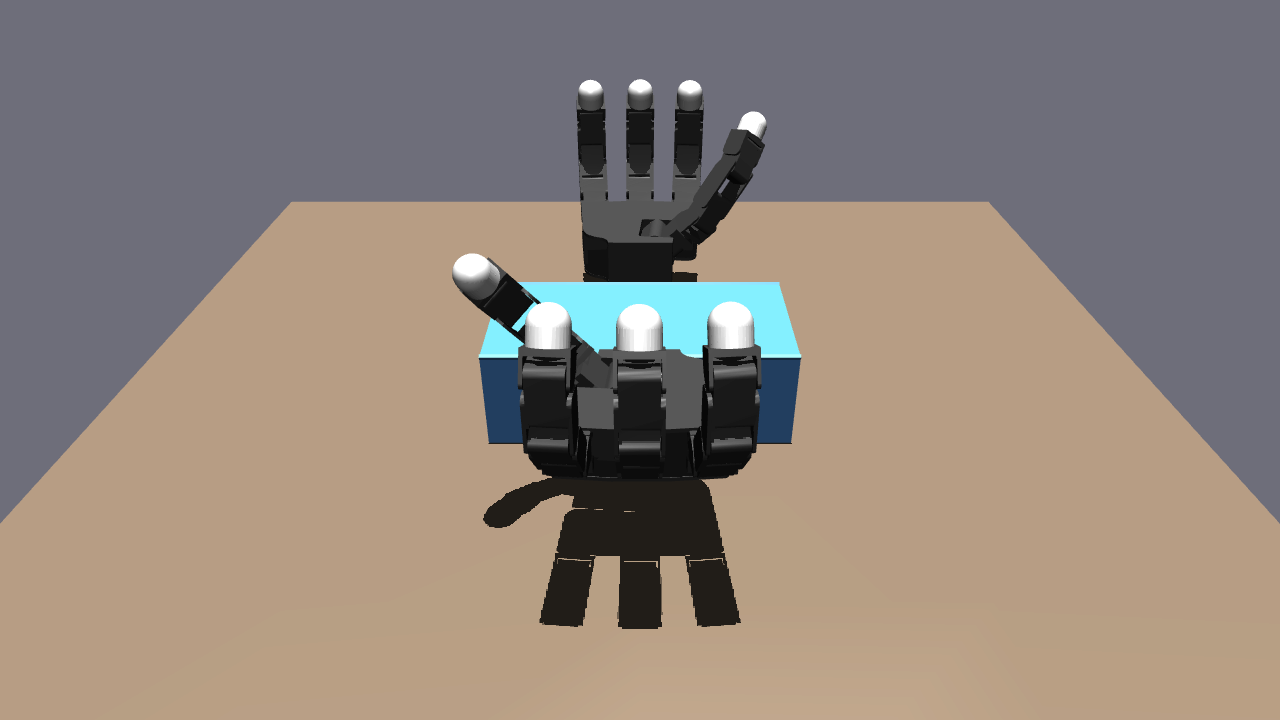
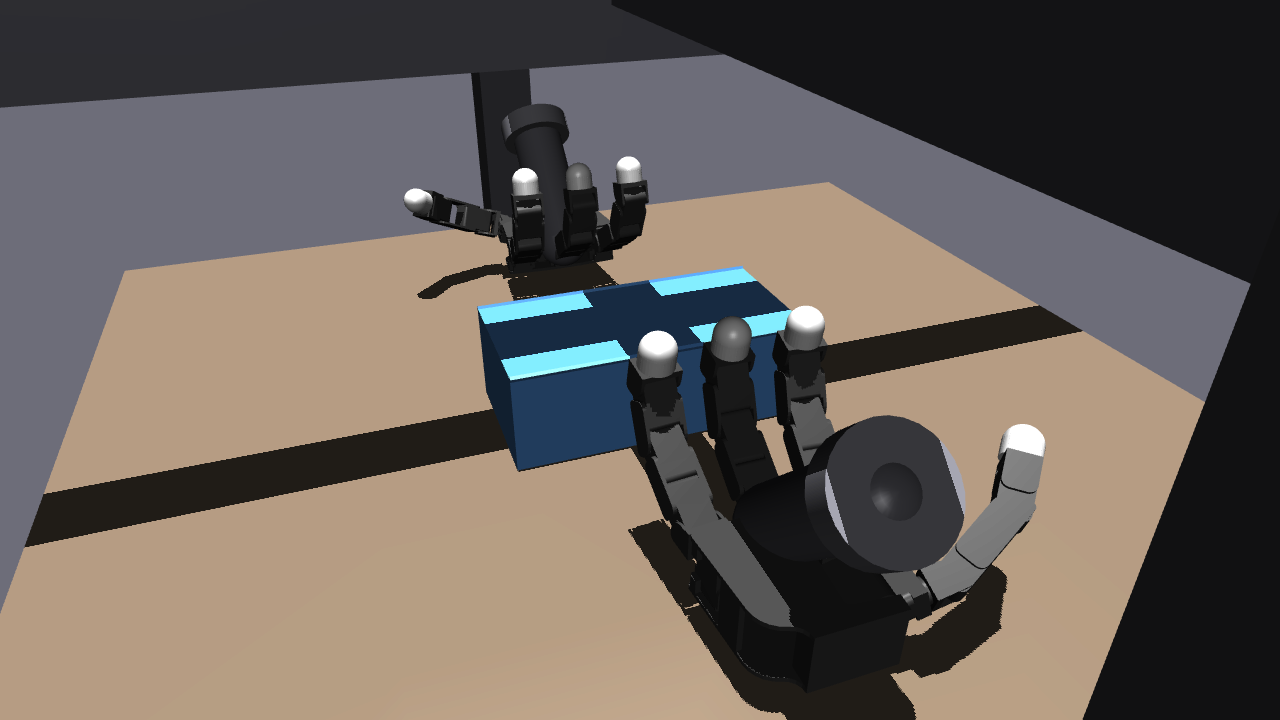
p0(w6d): v5 placeholder re-render

diff --git a/viz/panel_data_v2.js b/viz/panel_data_v2.js
@@ -1,1 +1,1 @@
-window.PANEL_DATA_V2 = {"fps": 30.0, "video_frames": ["docs/video_frames/f_0001.jpg", "docs/video_frames/f_0025.jpg", "docs/video_frames/f_0049.jpg", "docs/video_frames/f_0067.jpg", "docs/video_frames/f_0091.jpg", "docs/video_frames/f_0115.jpg", "docs/video_frames/f_0160.jpg", "docs/video_frames/f_0190.jpg", "docs/video_frames/f_0220.jpg"], "replay": {"fps": 30.0, "frames": [{"t": 0.0, "qpos": [7.12198918611605e-08, 2.126283932308127e-08, 0.739970907574062, 0.9999999999999997, -5.283763555937869e-16, 4.380527332883937e-12, 2.589560287387119e-14, 7.581018258541922e-09, -8.432069344802527e-07, -0.00042150913837548775, 0.0023556079973507246, -0.008797226943236565, 4.5557151118255606e-07, 6.0549068803779405e-05, 0.8865805668368311, 0.7015293130772894, 0.4013895912175097, 3.325323898538611e-05, 0.8865874034630451, 0.7015327064574296, 0.4013902777195643, 5.389208739854652e-06, 0.8865896580078455, 0.7015351188959165, 0.40139076590284906, 0.7763568879886139, 0.4931321616448214, 0.4002177610666012, 0.3013748193978717, 7.581018258541305e-09, -8.432069344802533e-07, -0.00042150913837548775, 0.002355607997350724, -0.008797226943236565, 4.5557151118255373e-07, 6.054906880377963e-05, 0.8865805668368311, 0.7015293130772894, 0.4013895912175097, 3.325323898538613e-05, 0.8865874034630451, 0.7015327064574296, 0.4013902777195643, 5.389208739854318e-06, 0.8865896580078455, 0.7015351188959165, 0.40139076590284906, 0.7763568879886139, 0.4931321616448214, 0.4002177610666012, 0.3013748193978717], "obj": [7.12198918611605e-08, 2.126283932308127e-08, 0.739970907574062, 0.9999999999999997, -5.283763555937869e-16, 4.380527332883937e-12, 2.589560287387119e-14]}, {"t": 2.2333333333333334, "qpos": [0.0, 0.0, 0.0, 0.0, 0.0, 0.0, 0.0, 0.038116029591155405, 0.041665160191913624, 0.011038102100861678, 1.5657043249872495, -0.5183876003612219, -0.5730711416161304, 0.28911646881418085, 0.6374318010393788, 0.48005499463306844, 1.535086970220237, 0.10568641857676701, -0.009123761393886123, 0.6511342130397172, -0.06866514182566055, -0.12166719442696441, 0.9545049248069467, 0.7173476135262914, -0.022342881642435492, 0.8111537787518018, 0.7257850194771143, -0.0920828724534332, 0.42841333235957096, -0.18, -0.18, 0.04086700682130335, -1.2858758269307744, 0.4856297588955613, 0.7568049299324692, 0.4409309399587155, 0.5567027136950631, 0.718646308588662, 0.2882699334376719, -0.24739543775736325, 0.6745802983837714, 0.744764265908149, 1.1134065687902073, 0.18538719308529544, 0.05745685349757855, 0.8758137518402871, 0.10086830336833713, 0.5664385305141474, 0.6624843458486709, -0.004196211187811752, 1.719], "obj": [7.12198918611605e-08, 2.126283932308127e-08, 0.739970907574062, 0.9999999999999997, -5.283763555937869e-16, 4.380527332883937e-12, 2.589560287387119e-14]}]}, "gates": [{"id": "w6a_birth", "name": "出生穿透", "verdict": "pass", "measured": "−6.2×10⁻¹⁷ m（精确零）/ 帽 0", "scope": "复位瞬间手指与盒面的最大嵌入深度：双手初始位姿是否零埋入"}, {"id": "w6a_settle", "name": "静置 400 步", "verdict": "pass", "measured": "盒 0.029 mm / 手 0.422 mm", "scope": "无策略空置 400 控制步后盒与手的最大漂移：场景自稳"}, {"id": "w6a_reach", "name": "双手可及", "verdict": "pass", "measured": "右 0.114 mm / 左 0.116 mm / 帽 0.116 mm", "scope": "门 3：双手指垫到各自端面的最小距离（负=轻微压入，容差内即过）"}], "meta": {"generated_by": "viz/replay_to_panel.py", "source": "占位：env reset + runs/w6/gate3_qpos.json（均为已验证配置）", "placeholder": true, "placeholder_note": "两个已验证场景帧（静置复位 / W6a 门 3 双手触面）。W6b 的 replay_frames.json 落地后，重跑 runs/.venv-mj/bin/python viz/replay_to_panel.py && runs/.venv-mj/bin/python viz/render_replay.py 即为成片。", "notes_per_frame": ["静置复位（400 步沉降，出生穿透 −6.2e−17 m）", "双手指垫触及端面（W6a 门 3 配置，间隙 ≤0.116 mm）"], "video_fps": 30.0, "video_segments": [{"name": "接近", "files": ["docs/video_frames/f_0001.jpg", "docs/video_frames/f_0025.jpg", "docs/video_frames/f_0049.jpg"]}, {"name": "触面", "files": ["docs/video_frames/f_0067.jpg", "docs/video_frames/f_0091.jpg", "docs/video_frames/f_0115.jpg"]}, {"name": "抬起", "files": ["docs/video_frames/f_0160.jpg", "docs/video_frames/f_0190.jpg", "docs/video_frames/f_0220.jpg"]}], "src_video": "runs/p0/assets/tissue_box.mp4", "renders": {"dir": "docs/replay_frames", "presets": [{"key": "front", "label": "正面"}, {"key": "side", "label": "侧面"}, {"key": "close", "label": "特写"}], "frames": {"front": ["docs/replay_frames/front_r0000.png", "docs/replay_frames/front_r0001.png"], "side": ["docs/replay_frames/side_r0000.png", "docs/replay_frames/side_r0001.png"], "close": ["docs/replay_frames/close_r0000.png", "docs/replay_frames/close_r0001.png"]}}}};
+window.PANEL_DATA_V2 = {"fps": 30.0, "video_frames": ["docs/video_frames/f_0001.jpg", "docs/video_frames/f_0025.jpg", "docs/video_frames/f_0049.jpg", "docs/video_frames/f_0067.jpg", "docs/video_frames/f_0091.jpg", "docs/video_frames/f_0115.jpg", "docs/video_frames/f_0160.jpg", "docs/video_frames/f_0190.jpg", "docs/video_frames/f_0220.jpg"], "replay": {"fps": 30.0, "frames": [{"t": 0.0, "qpos": [7.12198918611605e-08, 2.126283932308127e-08, 0.739970907574062, 0.9999999999999997, -5.283763555937869e-16, 4.380527332883937e-12, 2.589560287387119e-14, 2.2200045586204098e-08, -1.46577033163266e-06, -0.000421535830261507, 0.0034868621252180146, -0.006859270760976006, 2.882650151786099e-06, 5.126672629932576e-05, 0.5825551037374702, 0.5968880861074715, 0.600520963125384, 3.805829552632508e-05, 0.5825613005835425, 0.5968915663663138, 0.600521724850459, 2.4314206196240507e-05, 0.5825634652808634, 0.5968944584268946, 0.6005223583262637, 0.31315107907556844, 0.46497598812875107, 0.4032294769191097, 0.4322845203111971, 2.2200045586204664e-08, -1.465770331632654e-06, -0.000421535830261507, 0.003486862125218014, -0.006859270760976005, 2.882650151786095e-06, 5.126672629932536e-05, 0.5825551037374702, 0.5968880861074715, 0.600520963125384, 3.805829552632507e-05, 0.5825613005835425, 0.5968915663663138, 0.600521724850459, 2.431420619624125e-05, 0.5825634652808634, 0.5968944584268946, 0.6005223583262637, 0.31315107907556844, 0.46497598812875107, 0.4032294769191097, 0.4322845203111971], "obj": [7.12198918611605e-08, 2.126283932308127e-08, 0.739970907574062, 0.9999999999999997, -5.283763555937869e-16, 4.380527332883937e-12, 2.589560287387119e-14]}, {"t": 2.2333333333333334, "qpos": [0.0, 0.0, 0.0, 0.0, 0.0, 0.0, 0.0, 0.1062024385892405, -0.04498807778752646, 0.08729855162551815, -1.6707807045023138, 1.0531476042552268, 0.4493432279461673, 0.15313790161985283, 0.5536572348274654, 1.2972135333356138, 0.47046961370210744, -0.2504720579888454, -0.01765158270347156, 1.4854065903039682, 0.6467313195313715, -0.2317435071401376, 0.2613387406291442, 1.228061268911942, 0.7191136776299136, 0.6675214498669048, 0.511421868343386, 0.18788132869575022, 0.10699132131103653, 0.08733434405777298, -0.17060243291316995, 0.027405386335513926, 0.367844184103352, 1.1127444166291593, 0.8636033058905205, 0.43342537874115045, 1.2978990547121836, 1.301515610528928, 0.45072259441044144, 0.433927884220199, 0.3801649889881647, 0.43752933543046413, 1.126510926906093, 0.28485057172973427, 0.5308545015458433, 1.4861828049602412, 0.0695981053752992, 0.6984937997213417, 0.5367992387225827, 1.0927441936728681, 1.224527697462632], "obj": [7.12198918611605e-08, 2.126283932308127e-08, 0.739970907574062, 0.9999999999999997, -5.283763555937869e-16, 4.380527332883937e-12, 2.589560287387119e-14]}]}, "gates": [{"id": "w6a_birth", "name": "出生穿透", "verdict": "pass", "measured": "-6.2e-17 m（出生接触最小间距）/ 帽 1e-9 m", "scope": "复位瞬间手指与盒面的最大嵌入深度：双手初始位姿是否零埋入"}, {"id": "w6a_settle", "name": "静置 400 步", "verdict": "pass", "measured": "盒 0.029 mm / 手 0.421 mm / 帽 1 mm", "scope": "无策略空置 400 控制步后盒与手的最大漂移：场景自稳"}, {"id": "w6a_reach", "name": "双手可及", "verdict": "pass", "measured": "右 0.002 mm / 左 0.001 mm / 帽 0.116 mm", "scope": "门 3：双手指垫到各自端面的最小距离（负=轻微压入，容差内即过）"}], "meta": {"generated_by": "viz/replay_to_panel.py", "source": "占位：env reset + runs/w6/gate3_qpos.json（均为已验证配置）", "placeholder": true, "placeholder_note": "两个已验证场景帧（静置复位 / W6a 门 3 双手触面）。W6b 的 replay_frames.json 落地后，重跑 runs/.venv-mj/bin/python viz/replay_to_panel.py && runs/.venv-mj/bin/python viz/render_replay.py 即为成片。", "notes_per_frame": ["静置复位（400 步沉降）", "双手指垫触及端面（W6a 门 3 配置）"], "video_fps": 30.0, "video_segments": [{"name": "接近", "files": ["docs/video_frames/f_0001.jpg", "docs/video_frames/f_0025.jpg", "docs/video_frames/f_0049.jpg"]}, {"name": "触面", "files": ["docs/video_frames/f_0067.jpg", "docs/video_frames/f_0091.jpg", "docs/video_frames/f_0115.jpg"]}, {"name": "抬起", "files": ["docs/video_frames/f_0160.jpg", "docs/video_frames/f_0190.jpg", "docs/video_frames/f_0220.jpg"]}], "src_video": "runs/p0/assets/tissue_box.mp4", "renders": {"dir": "docs/replay_frames", "presets": [{"key": "front", "label": "正面"}, {"key": "side", "label": "侧面"}, {"key": "close", "label": "特写"}], "frames": {"front": ["docs/replay_frames/front_r0000.png", "docs/replay_frames/front_r0001.png"], "side": ["docs/replay_frames/side_r0000.png", "docs/replay_frames/side_r0001.png"], "close": ["docs/replay_frames/close_r0000.png", "docs/replay_frames/close_r0001.png"]}}}};

diff --git a/viz/replay_to_panel.py b/viz/replay_to_panel.py
@@ -59,23 +59,66 @@ NQ = 51                   # allegro_floating.xml nq: [0:7] object free joint,
 # faces in the human clip), so the two replay frames line up with the two
 # video frames the panel will show.
 PLACEHOLDER = [
-    ("静置复位（400 步沉降，出生穿透 −6.2e−17 m）", 0.0),
-    ("双手指垫触及端面（W6a 门 3 配置，间隙 ≤0.116 mm）", 67 / VIDEO_FPS),
+    ("静置复位（400 步沉降）", 0.0),
+    ("双手指垫触及端面（W6a 门 3 配置）", 67 / VIDEO_FPS),
 ]
 
-# W6a gate badges -- every number from committed evidence
-# (PLAN.md W6a 落地 entry + runs/w6/gate3_qpos.json).
-PLACEHOLDER_GATES = [
-    {"id": "w6a_birth", "name": "出生穿透", "verdict": "pass",
-     "measured": "−6.2×10⁻¹⁷ m（精确零）/ 帽 0",
-     "scope": "复位瞬间手指与盒面的最大嵌入深度：双手初始位姿是否零埋入"},
-    {"id": "w6a_settle", "name": "静置 400 步", "verdict": "pass",
-     "measured": "盒 0.029 mm / 手 0.422 mm",
-     "scope": "无策略空置 400 控制步后盒与手的最大漂移：场景自稳"},
-    {"id": "w6a_reach", "name": "双手可及", "verdict": "pass",
-     "measured": "右 0.114 mm / 左 0.116 mm / 帽 0.116 mm",
-     "scope": "门 3：双手指垫到各自端面的最小距离（负=轻微压入，容差内即过）"},
-]
+
+def _fmt_mm(x_m: float) -> str:
+    return f"{x_m:.1e} m" if abs(x_m) < 5e-7 else f"{x_m * 1e3:.3f} mm"
+
+
+def _measure_w6a_gates() -> list[dict]:
+    """Measure the three W6a gates live, mirroring tests/test_scene_w6.py's
+    own protocol and constants (GATE 1 birth contacts, GATE 2 400-step
+    settle, GATE 3 persisted reach), so the placeholder badges always carry
+    the currently committed scene's numbers."""
+    import mujoco
+
+    import grounding.envs.lift_hold_env as lhe
+
+    birth_tol_m, move_tol_m, settle_steps = 1e-9, 1e-3, 400  # test constants
+    env = lhe.LiftHoldEnv(episode_len=50, domain_rand=False)
+    env.reset(seed=0)
+    m = env.model
+
+    # GATE 1: fresh data + mj_forward = the birth state the test fixtures use
+    d = mujoco.MjData(m)
+    mujoco.mj_forward(m, d)
+    birth = min((float(d.contact[i].dist) for i in range(d.ncon)), default=0.0)
+
+    # GATE 2: settle THAT SAME data 400 steps, drift of box + both hand roots
+    obj = mujoco.mj_name2id(m, mujoco.mjtObj.mjOBJ_BODY, "object")
+    rr = mujoco.mj_name2id(m, mujoco.mjtObj.mjOBJ_BODY, "hand_root")
+    rl = mujoco.mj_name2id(m, mujoco.mjtObj.mjOBJ_BODY, "hand_root_left")
+    p0, r0, l0 = d.xpos[obj].copy(), d.xpos[rr].copy(), d.xpos[rl].copy()
+    for _ in range(settle_steps):
+        mujoco.mj_step(m, d)
+    box_move = float(np.linalg.norm(d.xpos[obj] - p0))
+    hand_move = max(float(np.linalg.norm(d.xpos[rr] - r0)),
+                    float(np.linalg.norm(d.xpos[rl] - l0)))
+
+    # GATE 3: the composed reach persisted by the test itself
+    g3 = json.loads(GATE3.read_text())
+    gaps = g3["gaps_mm"]
+    tol_mm = g3["tol_m"] * 1e3
+
+    return [
+        {"id": "w6a_birth", "name": "出生穿透",
+         "verdict": "pass" if birth >= -birth_tol_m else "fail",
+         "measured": f"{_fmt_mm(birth)}（出生接触最小间距）/ 帽 1e-9 m",
+         "scope": "复位瞬间手指与盒面的最大嵌入深度：双手初始位姿是否零埋入"},
+        {"id": "w6a_settle", "name": "静置 400 步",
+         "verdict": "pass" if box_move < move_tol_m and hand_move < move_tol_m
+         else "fail",
+         "measured": f"盒 {_fmt_mm(box_move)} / 手 {_fmt_mm(hand_move)} / 帽 1 mm",
+         "scope": "无策略空置 400 控制步后盒与手的最大漂移：场景自稳"},
+        {"id": "w6a_reach", "name": "双手可及",
+         "verdict": "pass" if max(gaps.values()) <= tol_mm else "fail",
+         "measured": (f"右 {abs(gaps['right']):.3f} mm / "
+                      f"左 {abs(gaps['left']):.3f} mm / 帽 {tol_mm:.3f} mm"),
+         "scope": "门 3：双手指垫到各自端面的最小距离（负=轻微压入，容差内即过）"},
+    ]
 
 
 def _settled_reset_frame() -> tuple[list[float], list[float]]:
@@ -165,7 +208,7 @@ def build() -> dict:
         notes = [n for n, _ in PLACEHOLDER]
 
     gates = (json.loads(GATES_IN.read_text())["gates"]
-             if GATES_IN.exists() else PLACEHOLDER_GATES)
+             if GATES_IN.exists() else _measure_w6a_gates())
 
     payload = {
         "fps": VIDEO_FPS,

diff --git a/viz/render_replay.py b/viz/render_replay.py
@@ -33,11 +33,13 @@ WIDTH, HEIGHT = 1280, 720  # match the source clip so both panes scale identical
 
 PRESETS = [
     # (key, 中文, azimuth deg, elevation deg, distance m)
-    # az 90 puts both ±x hands left/right with the box long side on --
-    # the human clip's composition (verified against an azimuth sweep)
-    ("front", "正面", 90.0, -25.0, 0.80),
-    ("side", "侧面", 0.0, -32.0, 0.72),
-    ("close", "特写", 65.0, -25.0, 0.42),
+    # v5 scene adds the gantry (rail runs along y at z~1.015): dead-on az 90
+    # puts the lens against the rail's end face (renders as a giant cube), so
+    # the presets view from slightly off-axis -- gantry stays in frame without
+    # blocking the lens.  Verified against reset + gate3 frames.
+    ("front", "正面", 105.0, -22.0, 0.80),
+    ("side", "侧面", -20.0, -30.0, 0.72),
+    ("close", "特写", -20.0, -24.0, 0.46),
 ]
 
 
